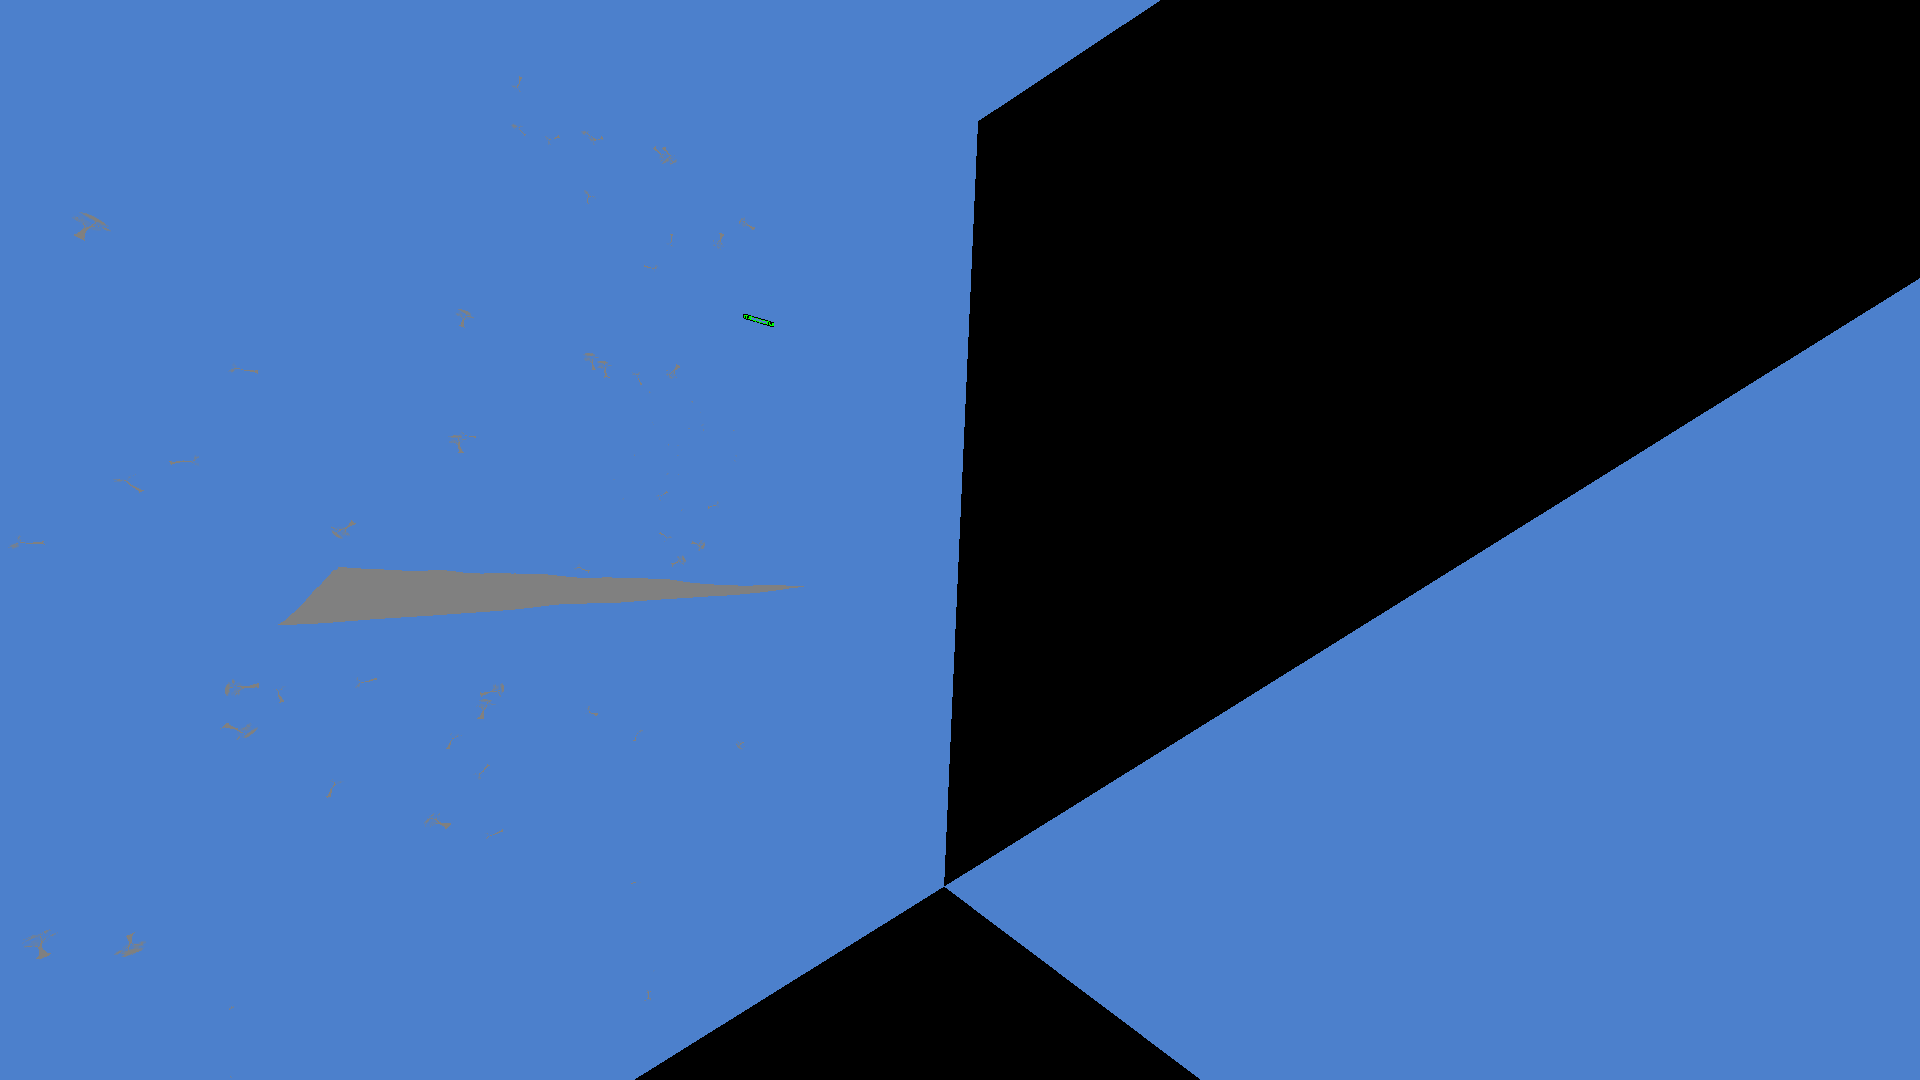
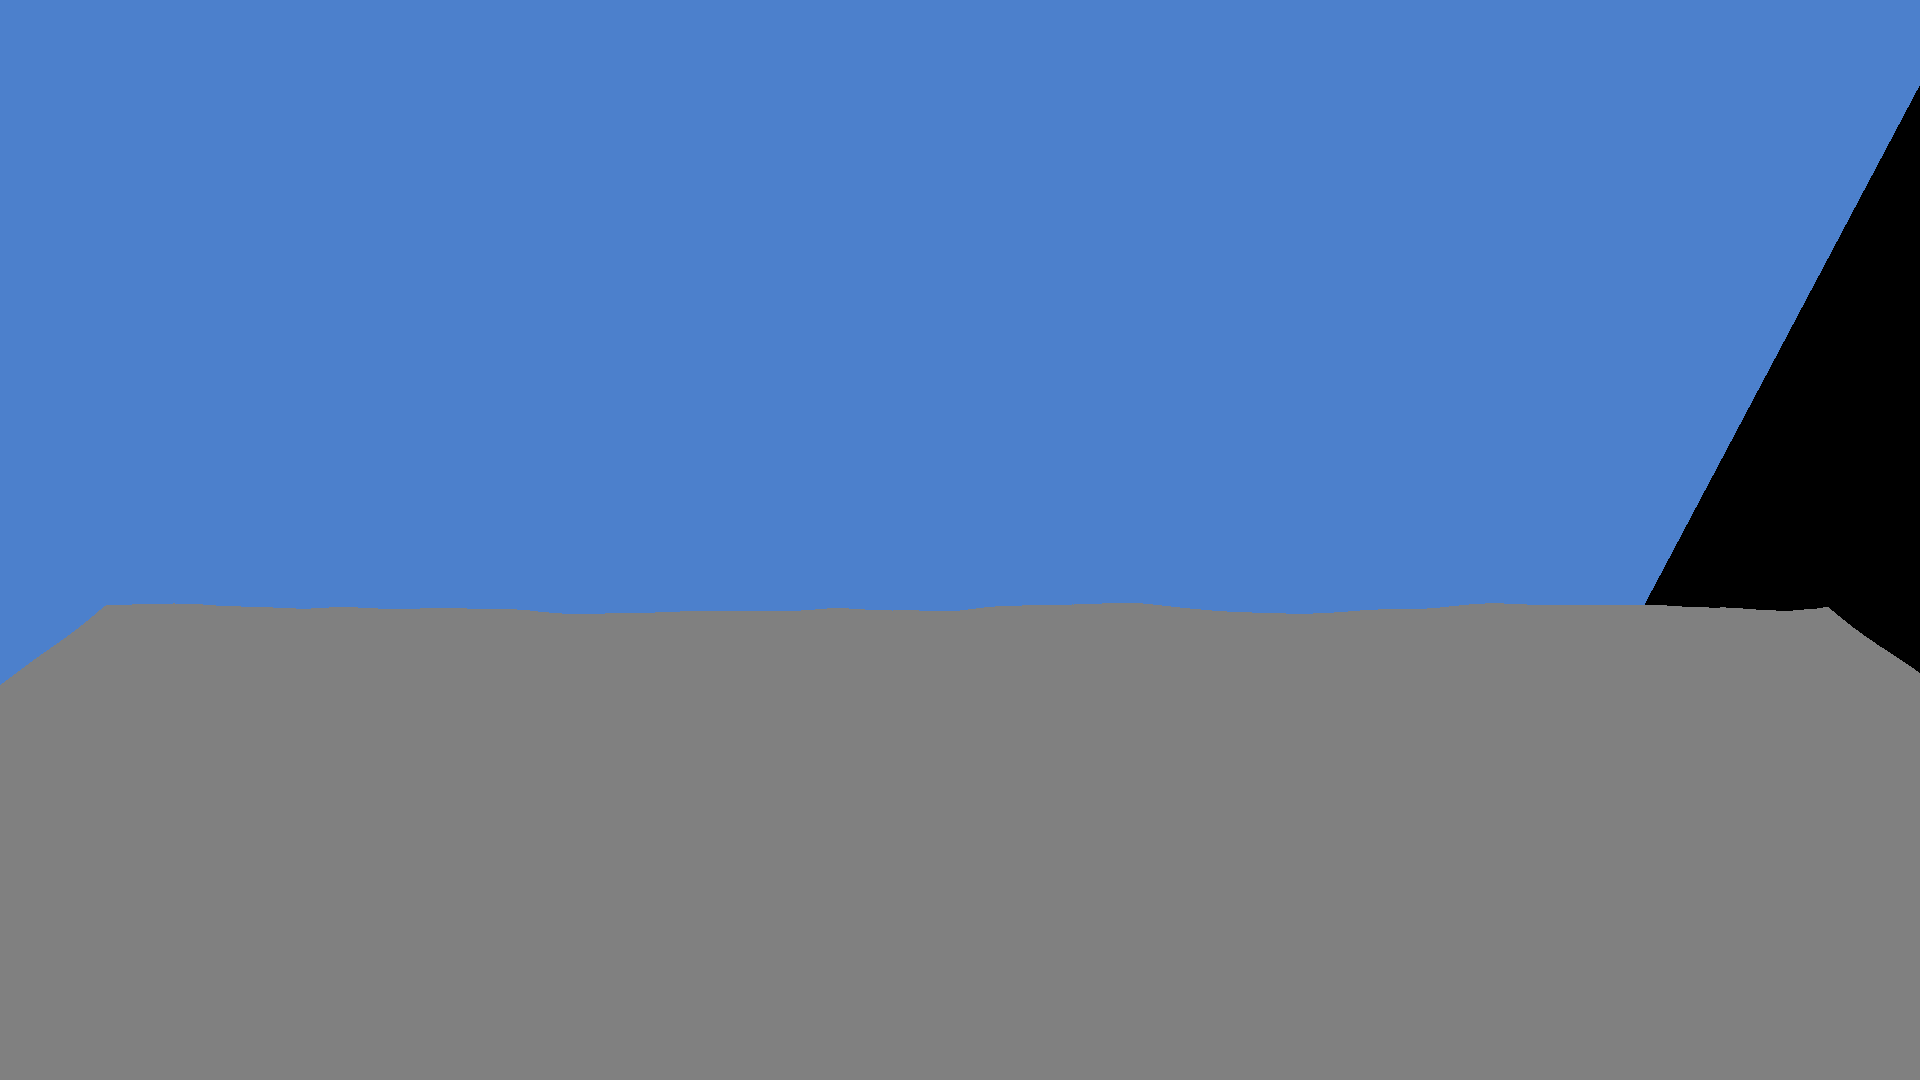
checkpoint before DTS loader session

diff --git a/src/game/weapon.cpp b/src/game/weapon.cpp
@@ -10,12 +10,12 @@
 #define SND(path) "audio/fx/weapons/" path ".wav"
 
 const WeaponData gWeaponTable[] = {
-    WEAPON("Spinfusor",    ProjectileType::Disc,    0.8f,  1.5f, 60.0f, 50.0f,  5.0f,  40, 5.0f, false, false, SND("spinfusor/spinfusor_fire"), SND("spinfusor/spinfusor_explosion")),
-    WEAPON("Blaster",      ProjectileType::Bolt,    0.2f,  0.0f, 20.0f, 80.0f,  3.0f,  -1, 2.0f, true,  false, SND("blaster/blaster_fire"),        SND("blaster/blaster_impact")),
-    WEAPON("Chaingun",     ProjectileType::Hitscan, 0.08f, 2.0f, 10.0f,  0.0f,  0.0f, 200, 0.0f, true,  false, SND("chaingun/chaingun_fire"),      nullptr),
-    WEAPON("GrenadeLauncher", ProjectileType::Grenade, 0.6f, 1.2f, 80.0f, 25.0f, 10.0f,  15, 6.0f, false, false, SND("grenade/grenade_fire"),       SND("grenade/grenade_explosion")),
-    WEAPON("SniperRifle",  ProjectileType::Hitscan, 0.5f,  2.5f, 100.0f, 0.0f,  0.0f,  10, 0.0f, false, false, SND("sniper/sniper_fire"),          nullptr),
-    WEAPON("Mortar",       ProjectileType::Mortar,  1.0f,  2.0f, 120.0f, 30.0f, 15.0f,  10, 7.0f, false, false, SND("mortar/mortar_fire"),          SND("mortar/mortar_explosion")),
+    WEAPON("Spinfusor",    ProjectileType::Disc,    0.8f,  1.5f, 60.0f, 50.0f,  5.0f,  40, 5.0f, false, false, SND("spinfusor_fire"), SND("spinfusor_impact")),
+    WEAPON("Blaster",      ProjectileType::Bolt,    0.2f,  0.0f, 20.0f, 80.0f,  3.0f,  -1, 2.0f, true,  false, SND("blaster_fire"),        SND("blaster_impact")),
+    WEAPON("Chaingun",     ProjectileType::Hitscan, 0.08f, 2.0f, 10.0f,  0.0f,  0.0f, 200, 0.0f, true,  false, SND("chaingun_fire"),      nullptr),
+    WEAPON("GrenadeLauncher", ProjectileType::Grenade, 0.6f, 1.2f, 80.0f, 25.0f, 10.0f,  15, 6.0f, false, false, SND("grenadelauncher_fire"),       SND("grenade_explode")),
+    WEAPON("SniperRifle",  ProjectileType::Hitscan, 0.5f,  2.5f, 100.0f, 0.0f,  0.0f,  10, 0.0f, false, false, SND("sniper_fire"),          nullptr),
+    WEAPON("Mortar",       ProjectileType::Mortar,  1.0f,  2.0f, 120.0f, 30.0f, 15.0f,  10, 7.0f, false, false, SND("mortar_fire"),          SND("mortar_explode")),
 };
 
 const int gWeaponCount = sizeof(gWeaponTable) / sizeof(gWeaponTable[0]);

diff --git a/src/core/math.cpp b/src/core/math.cpp
@@ -23,6 +23,14 @@ Point3F MatrixF::transform(const Point3F& p) const {
     };
 }
 
+Point3F MatrixF::transformNormal(const Point3F& n) const {
+    return {
+        m[0][0] * n.x + m[0][1] * n.y + m[0][2] * n.z,
+        m[1][0] * n.x + m[1][1] * n.y + m[1][2] * n.z,
+        m[2][0] * n.x + m[2][1] * n.y + m[2][2] * n.z
+    };
+}
+
 void MatrixF::setRotationX(float a) {
     identity();
     float c = std::cos(a), s = std::sin(a);

diff --git a/src/render/dts_loader.h b/src/render/dts_loader.h
@@ -6,15 +6,20 @@
 
 struct DTSLoadResult {
     std::vector<MeshData> meshes;
+    std::vector<SkinInfo> skins;            // parallel to meshes
     std::vector<Texture> textures;
     std::vector<uint32_t> materialFlags;
     std::vector<int8_t> materialLightmapIndex;
     std::vector<Texture> lightmaps;
-    std::vector<std::string> materialNames; // original material name/path per-texture
+    std::vector<std::string> materialNames;
     std::vector<DTSShape::DetailLevel> details;
     std::vector<DTSShape::Animation> animations;
     std::vector<DTSShape::Node> nodes;
+    std::vector<MatrixF> defaultTransforms; // per-node default (bind pose) transforms
     bool loaded = false;
 };
 
 DTSLoadResult loadDTS(const uint8_t* data, size_t size, const char* name);
+bool updateSkinnedMesh(MeshData& mesh, SkinInfo& skin,
+                       const std::vector<MatrixF>& nodeWorld,
+                       const std::vector<MatrixF>& initialTransforms);

diff --git a/src/core/math.h b/src/core/math.h
@@ -18,6 +18,7 @@ struct MatrixF {
     void identity();
     MatrixF operator*(const MatrixF& o) const;
     Point3F transform(const Point3F& p) const;
+    Point3F transformNormal(const Point3F& n) const;
     void setRotationX(float a);
     void setRotationY(float a);
     void setRotationZ(float a);